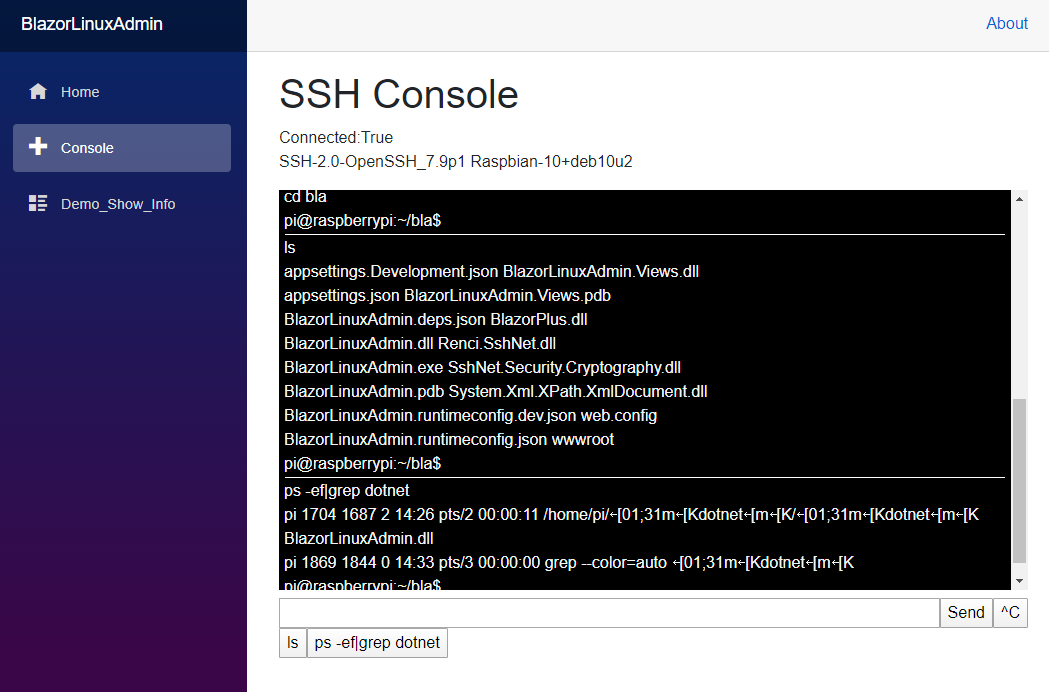
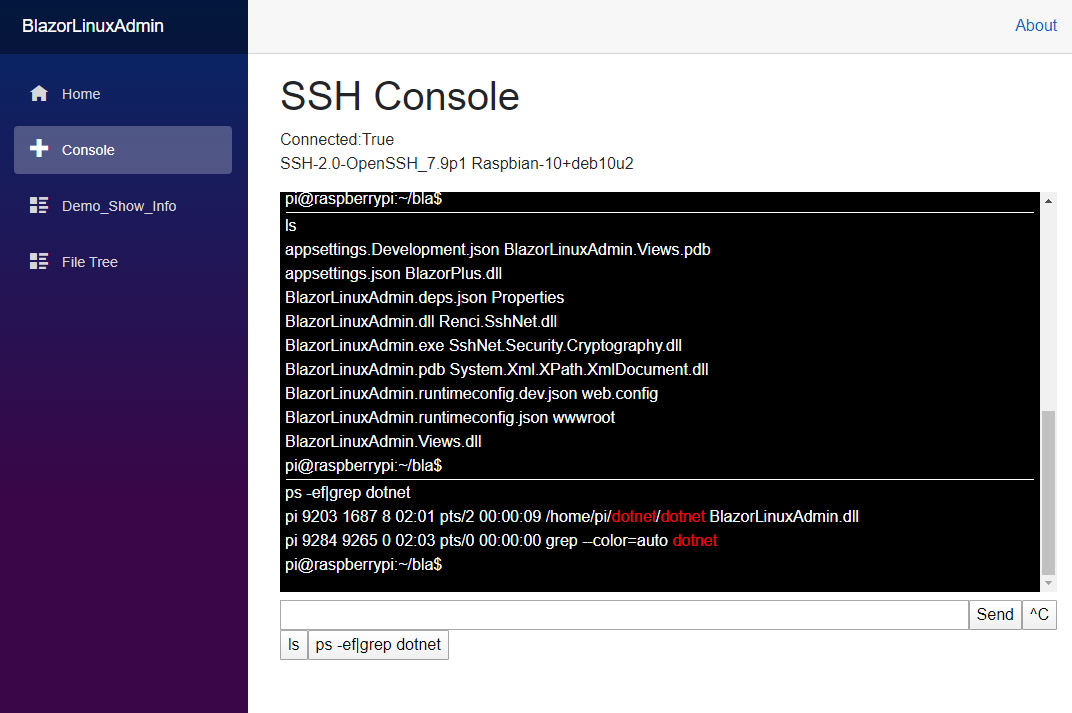
update readme v0.0.4

diff --git a/README.md b/README.md
@@ -1,7 +1,7 @@
 # BlazorLinuxAdmin
 
 
-# Progresss v0.0.4 Better Console (Linux & WIn)
+# Progresss v0.0.4 Better Console (Linux & Win)
 
 Just a tool for :
 
@@ -11,8 +11,10 @@ Just a tool for :
 
 ![Screenshot](https://github.com/BlazorPlus/BlazorLinuxAdmin/raw/master/BlazorLinuxAdmin.png)
 
+![Screenshot](https://github.com/BlazorPlus/BlazorLinuxAdmin/raw/master/BlazorLinuxAdmin-FileTree.png)
 
-# Progresss v0.0.3 - File Tree
+
+Progresss v0.0.3 - File Tree
 
 Progresss v0.0.2 - global login 
 
